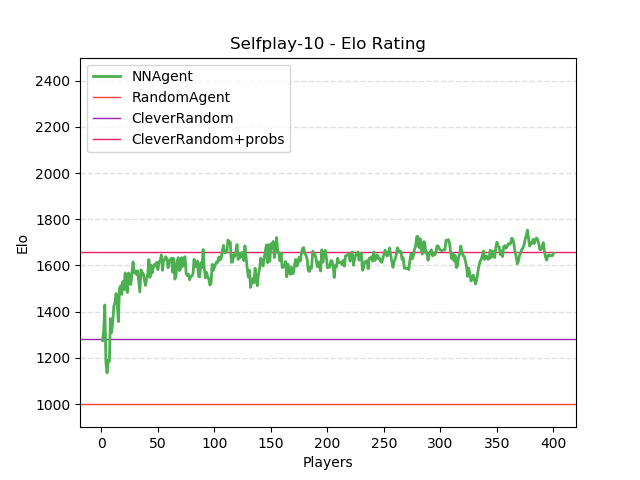
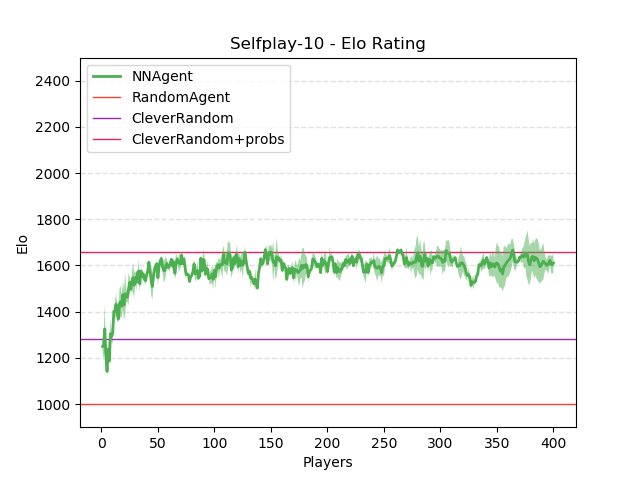
plots

Changed region(s): [[0.1562, 0.4688, 0.875, 0.75]]

diff --git a/plotgenerators/createVarPlots.py b/plotgenerators/createVarPlots.py
@@ -3,6 +3,7 @@ import pandas as pd
 import numpy as np
 from matplotlib import pyplot as plt
 import re
+from plots import EloPlot
 
 subdirs = set()
 for s, _, _ in os.walk(os.curdir):
@@ -45,64 +46,21 @@ for directory in subdirs:
                     except Exception as e:
                         print(e)
         name = directory.split('\\')[-2]
+
         try:
             if Elo is not None:
-                Mean = np.mean(Elo, axis=2)
-                Std = np.std(Elo, axis=2)
-                y = Mean[0, :]
-                sd = Std[0, :]
-                x = np.arange(1, len(y) + 1)
-                plt.plot(x, y, lw=2, label=agent, color='#4CAF50', zorder=2)
-                plt.axhline(y=1000, color='#F44336', lw=1, label='RandomAgent', zorder=1)
-                plt.axhline(y=1200, color='#E0E0E0', linestyle='dashed', lw=1, zorder=1)
-                plt.axhline(y=1280, color='#9C27B0', lw=1, label='CleverRandom', zorder=1)
-                plt.axhline(y=1400, color='#E0E0E0', linestyle='dashed', lw=1, zorder=1)
-                plt.axhline(y=1600, color='#E0E0E0', linestyle='dashed', lw=1, zorder=1)
-                plt.axhline(y=1657, color='#E91E63', lw=1, label='CleverRandom+probs', zorder=1)
-                plt.axhline(y=1800, color='#E0E0E0', linestyle='dashed', lw=1, zorder=1)
-                plt.axhline(y=2000, color='#E0E0E0', linestyle='dashed', lw=1, zorder=1)
-                plt.axhline(y=2200, color='#E0E0E0', linestyle='dashed', lw=1, zorder=1)
-                plt.axhline(y=2400, color='#E0E0E0', linestyle='dashed', lw=1, zorder=1)
-                plt.fill_between(x, y + sd, y - sd, facecolor='#4CAF50', alpha=0.5, zorder=2)
-                plt.legend(loc='upper left')
-                plt.ylim((900, 2500))
-                plt.title(f'{name} - Elo Rating')
-                plt.xlabel('Players')
-                plt.ylabel('Elo')
-                plt.savefig(f'plots/EloRating/' + f'{name}' + '.png')
-                plt.savefig(f'outputs/{name}/' + f'{name} - Elo Rating' + '.png')
-                plt.clf()
+                with EloPlot(xlabel='Players', title=f'{name} - Elo Rating', saves=[f'plots/EloRating/' + f'{name}' + '.png', f'outputs/{name}/' + f'{name} - Elo Rating' + '.png']) as plt:
+                    plt.varPlot(plt, Elo, agent, '#4CAF50')
         except Exception as e:
             print(e)
+
         try:
             if EloOverTime is not None:
-                Mean = np.mean(EloOverTime, axis=2)
-                Std = np.std(EloOverTime, axis=2)
-                y = Mean[0, :]
-                sd = Std[0, :]
-                x = np.arange(1, len(y) + 1)
-                plt.plot(x, y, lw=2, label=agent, color='#4CAF50', zorder=2)
-                plt.axhline(y=1000, color='#F44336', lw=1, label='RandomAgent', zorder=1)
-                plt.axhline(y=1200, color='#E0E0E0', linestyle='dashed', lw=1, zorder=1)
-                plt.axhline(y=1280, color='#9C27B0', lw=1, label='CleverRandom', zorder=1)
-                plt.axhline(y=1400, color='#E0E0E0', linestyle='dashed', lw=1, zorder=1)
-                plt.axhline(y=1600, color='#E0E0E0', linestyle='dashed', lw=1, zorder=1)
-                plt.axhline(y=1657, color='#E91E63', lw=1, label='CleverRandom+probs', zorder=1)
-                plt.axhline(y=1800, color='#E0E0E0', linestyle='dashed', lw=1, zorder=1)
-                plt.axhline(y=2000, color='#E0E0E0', linestyle='dashed', lw=1, zorder=1)
-                plt.axhline(y=2200, color='#E0E0E0', linestyle='dashed', lw=1, zorder=1)
-                plt.axhline(y=2400, color='#E0E0E0', linestyle='dashed', lw=1, zorder=1)
-                plt.fill_between(x, y + sd, y - sd, facecolor='#4CAF50', alpha=0.5, zorder=2)
-                plt.legend(loc='upper left')
-                plt.ylim((900, 2500))
-                plt.title(f'{name} - Elo Rating over Time')
-                plt.xlabel('Games')
-                plt.ylabel('Elo')
-                plt.savefig(f'plots/EloRatingOverTime/' + f'{name}' + '.png')
-                plt.savefig(f'outputs/{name}/' + f'{name} - Elo Rating over Time' + '.png')
-                plt.clf()
+                with EloPlot(title=f'{name} - Elo Rating over Time', saves=[f'plots/EloRatingOverTime/' + f'{name}' + '.png', f'outputs/{name}/' + f'{name} - Elo Rating over Time' + '.png']) as plt:
+                    plt.varPlot(plt, EloOverTime, agent, '#4CAF50')
         except Exception as e:
             print(e)
+
         Elo = None
         EloOverTime = None
         data = None

diff --git a/plotgenerators/cleverrandomelo.py b/plotgenerators/cleverrandomelo.py
@@ -1,45 +1,49 @@
 import os
 import pandas as pd
 import numpy as np
-from matplotlib import pyplot as plt
 import re
+from plots import EloPlot
+
 print('\n\n\n')
 Elo = None
 EloOverTime = None
 agent = 'Error'
 data = None
-for directory in [".\outputs\CleverRandomElo\csv", ".\outputs\CleverRandomEloCalcProb-4000\csv"]:
-    for _, _, files in os.walk(directory):
-        for filename in files:
-            match = re.match(r"([a-z]+)([0-9]+)", filename, re.I)
-            if match:
-                items = match.groups()
-                agent = items[0]
-            curentname = None
-            try:
-                curentname = filename.split('-')[-1][:-4]
-                data = pd.read_csv(directory + '\\' + filename, header=None)
-                data = np.array(data).reshape(data.shape[0], data.shape[1], 1)
-            except Exception as e:
-                pass
-
-            if curentname == 'EloOverTime':
+with EloPlot(title=f'Clever Random - Elo Rating', saves=[f'GoodPlots/CleverRandom.png']) as plt:
+    for directory, color in [(".\outputs\CleverRandomElo\csv", '#4CAF50'), (".\outputs\CleverRandomEloCalcProb-4000\csv", '#2196F3')]:
+        for _, _, files in os.walk(directory):
+            for filename in files:
+                match = re.match(r"([a-z]+)([0-9]+)", filename, re.I)
+                if match:
+                    items = match.groups()
+                    agent = items[0]
+                curentname = None
                 try:
-                    if EloOverTime is None:
-                        EloOverTime = data
-                    else:
-                        EloOverTime = np.concatenate((EloOverTime, data), axis=-1)
+                    curentname = filename.split('-')[-1][:-4]
+                    data = pd.read_csv(directory + '\\' + filename, header=None)
+                    data = np.array(data).reshape(data.shape[0], data.shape[1], 1)
                 except Exception as e:
-                    print(e)
+                    pass
 
-    name = directory.split('\\')[-2]
-    theData = EloOverTime[0, 1000:, :]
-    m = theData.mean()
-    sd = theData.std() / np.sqrt(theData.size) * 1.96
-    print(f'Calculated from {theData.shape[1]} samples.')
-    print(f'{name}: mean = {m:.6}    ,    95% = [{(m-sd):.6}, {(m+sd):.6}]\n')
+                if curentname == 'EloOverTime':
+                    try:
+                        if EloOverTime is None:
+                            EloOverTime = data
+                        else:
+                            EloOverTime = np.concatenate((EloOverTime, data), axis=-1)
+                    except Exception as e:
+                        print(e)
 
-    Elo = None
-    EloOverTime = None
-    data = None
+        name = directory.split('\\')[-2]
+        theData = EloOverTime[0, 1000:, :]
+        m = theData.mean()
+        sd = theData.std() / np.sqrt(theData.size) * 1.96
+        print(f'Calculated from {theData.shape[1]} samples.')
+        print(f'{name}: mean = {m:.6}    ,    95% = [{(m-sd):.6}, {(m+sd):.6}]\n')
+
+        plt.varPlot(plt, EloOverTime, name, color)
+
+        Elo = None
+        EloOverTime = None
+        data = None
 print('\n\n')

diff --git a/plotgenerators/plots.py b/plotgenerators/plots.py
@@ -1,0 +1,43 @@
+from matplotlib import pyplot as plt
+import numpy as np
+
+
+class EloPlot():
+    def __init__(self, xlabel='Games', title='Placeholder', saves=[]):
+        self.plt = plt
+        self.plt.ylim((900, 2500))
+        self.plt.title(title)
+        self.title = title
+        self.plt.xlabel(xlabel)
+        self.plt.ylabel('Elo')
+        self.saves = saves
+
+        def varPlot(self, data, agent, color):
+            Mean = np.mean(data, axis=2)
+            Std = np.std(data, axis=2)
+            y = Mean[0, :]
+            sd = Std[0, :]
+            x = np.arange(1, len(y) + 1)
+            self.plot(x, y, lw=2, label=agent, color=color, zorder=2)
+            self.fill_between(x, y + sd, y - sd, facecolor=color, alpha=0.5, zorder=2)
+
+        self.plt.varPlot = varPlot
+
+    def __enter__(self):
+        return self.plt
+
+    def __exit__(self, types, value, traceback):
+        self.plt.axhline(y=1000, color='#F44336', lw=1, label='RandomAgent', zorder=1)
+        self.plt.axhline(y=1200, color='#E0E0E0', linestyle='dashed', lw=1, zorder=1)
+        self.plt.axhline(y=1280, color='#9C27B0', lw=1, label='CleverRandom', zorder=1)
+        self.plt.axhline(y=1400, color='#E0E0E0', linestyle='dashed', lw=1, zorder=1)
+        self.plt.axhline(y=1600, color='#E0E0E0', linestyle='dashed', lw=1, zorder=1)
+        self.plt.axhline(y=1657, color='#E91E63', lw=1, label='CleverRandom+probs', zorder=1)
+        self.plt.axhline(y=1800, color='#E0E0E0', linestyle='dashed', lw=1, zorder=1)
+        self.plt.axhline(y=2000, color='#E0E0E0', linestyle='dashed', lw=1, zorder=1)
+        self.plt.axhline(y=2200, color='#E0E0E0', linestyle='dashed', lw=1, zorder=1)
+        self.plt.axhline(y=2400, color='#E0E0E0', linestyle='dashed', lw=1, zorder=1)
+        self.plt.legend(loc='upper left')
+        for savepos in self.saves:
+            self.plt.savefig(savepos)
+        self.plt.clf()
